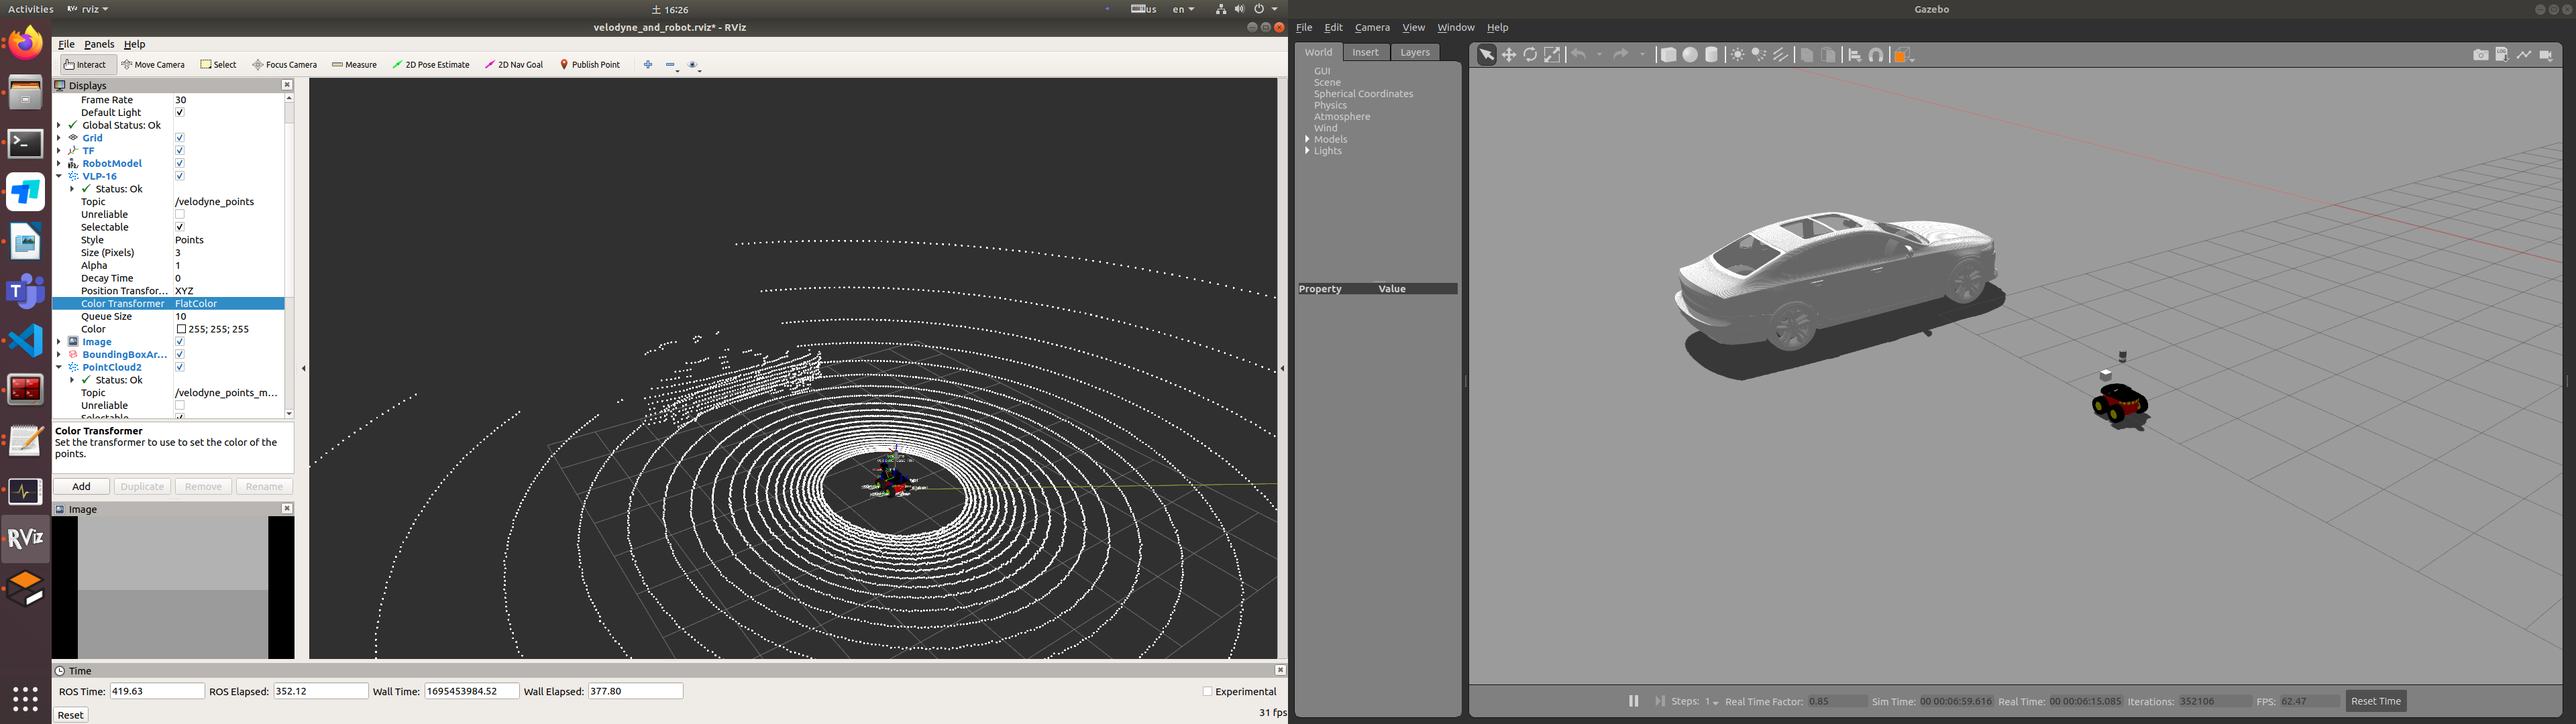
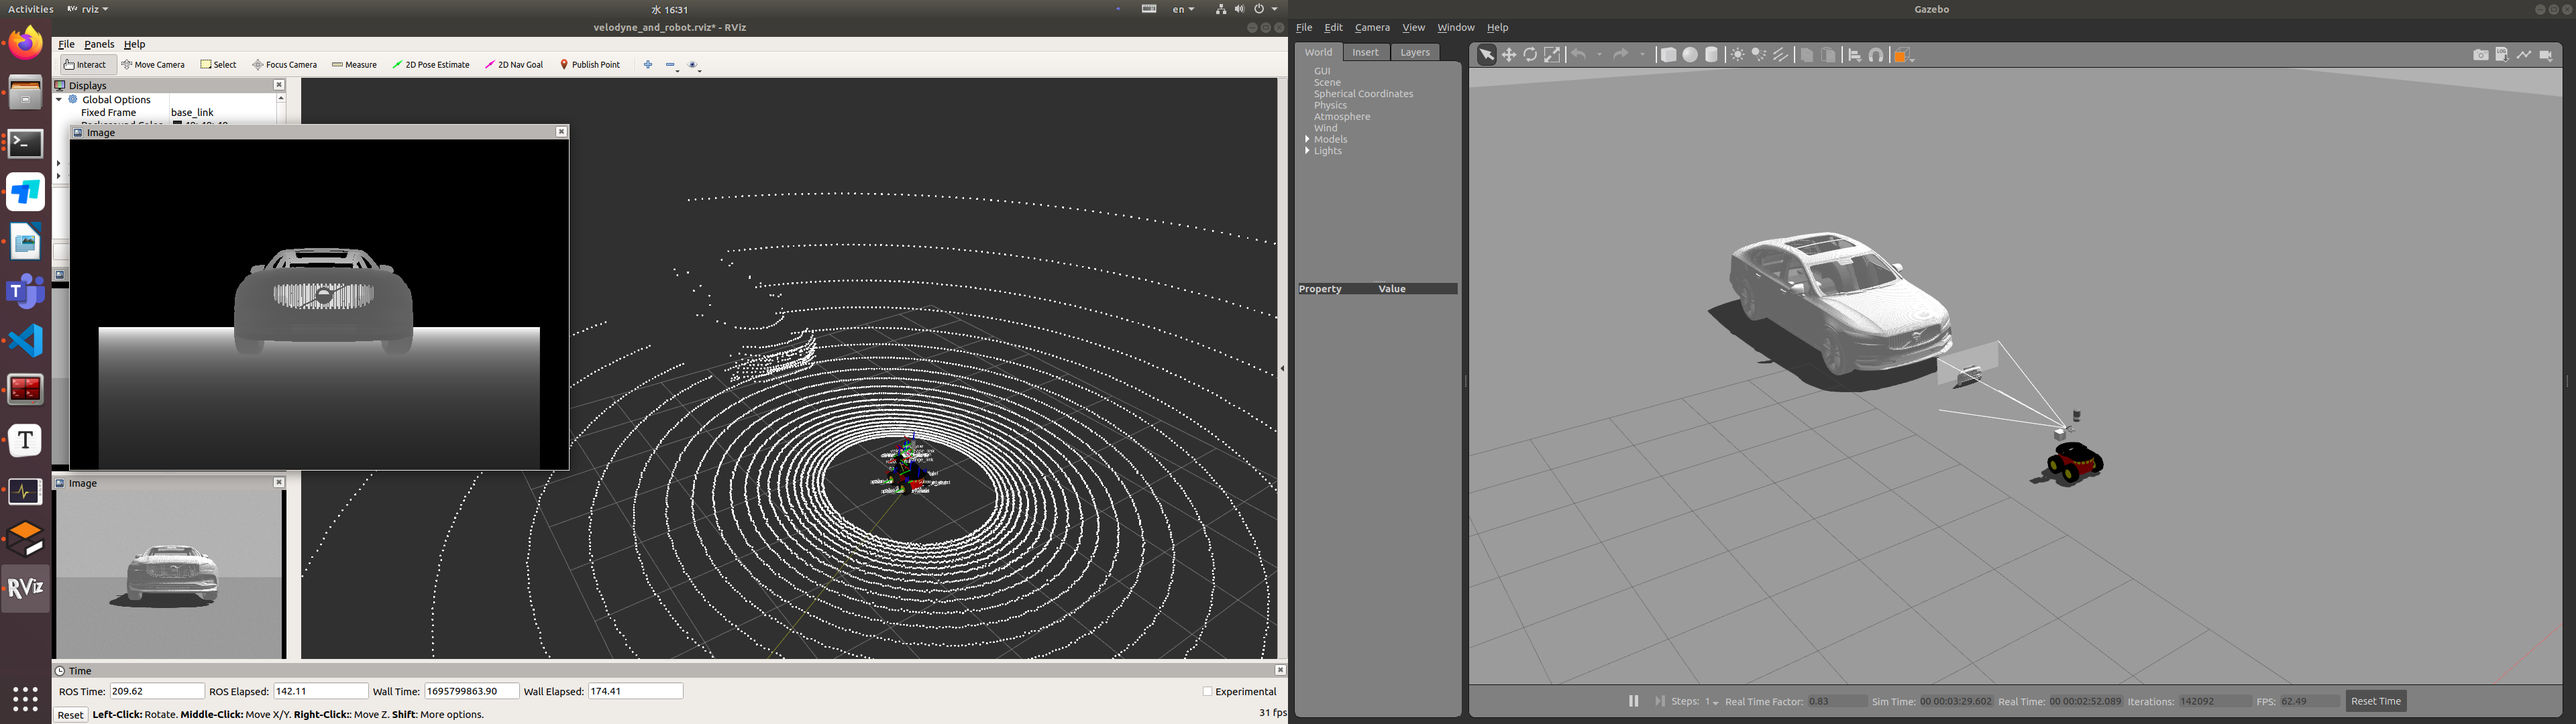
add realsenseD435

diff --git a/move_gazebo_robot/view_point.py b/move_gazebo_robot/view_point.py
@@ -2,7 +2,7 @@ import open3d as o3d
 import numpy as np
 import os
 import math
-from drow_coordinates_iou import loadCoordinatesIouTxt
+from drowResult import loadCoordinatesIouTxt
 from iou_3d import get_3d_box, box3d_iou
 
 

diff --git a/move_gazebo_robot/drowResult.py b/move_gazebo_robot/drowResult.py
@@ -33,7 +33,7 @@ def loadCoordinatesIouTxt():
     return unique_radius, sorted_data
 
 
-if __name__ in "__main__":
+if __name__ == "__main__":
 
     unique_radius, sorted_data = loadCoordinatesIouTxt()
     

diff --git a/README.md b/README.md
@@ -1,7 +1,13 @@
 # p3at_gazebo
 Using the p3at bot in gazebo
 
+The Robot equipped with HDL-32E, rc2016, realsenseD435
+
+To know the details, check p3at_description/urdf/robot.urdf.xacro
+
 ![](https://github.com/BunKUMA/p3at_gazebo/blob/main/Screenshot.png)
+
+The package has been tested on ROS melodic on Ubuntu 18.04 with Gazebo 9.
 
 ## starting in the following :
 
